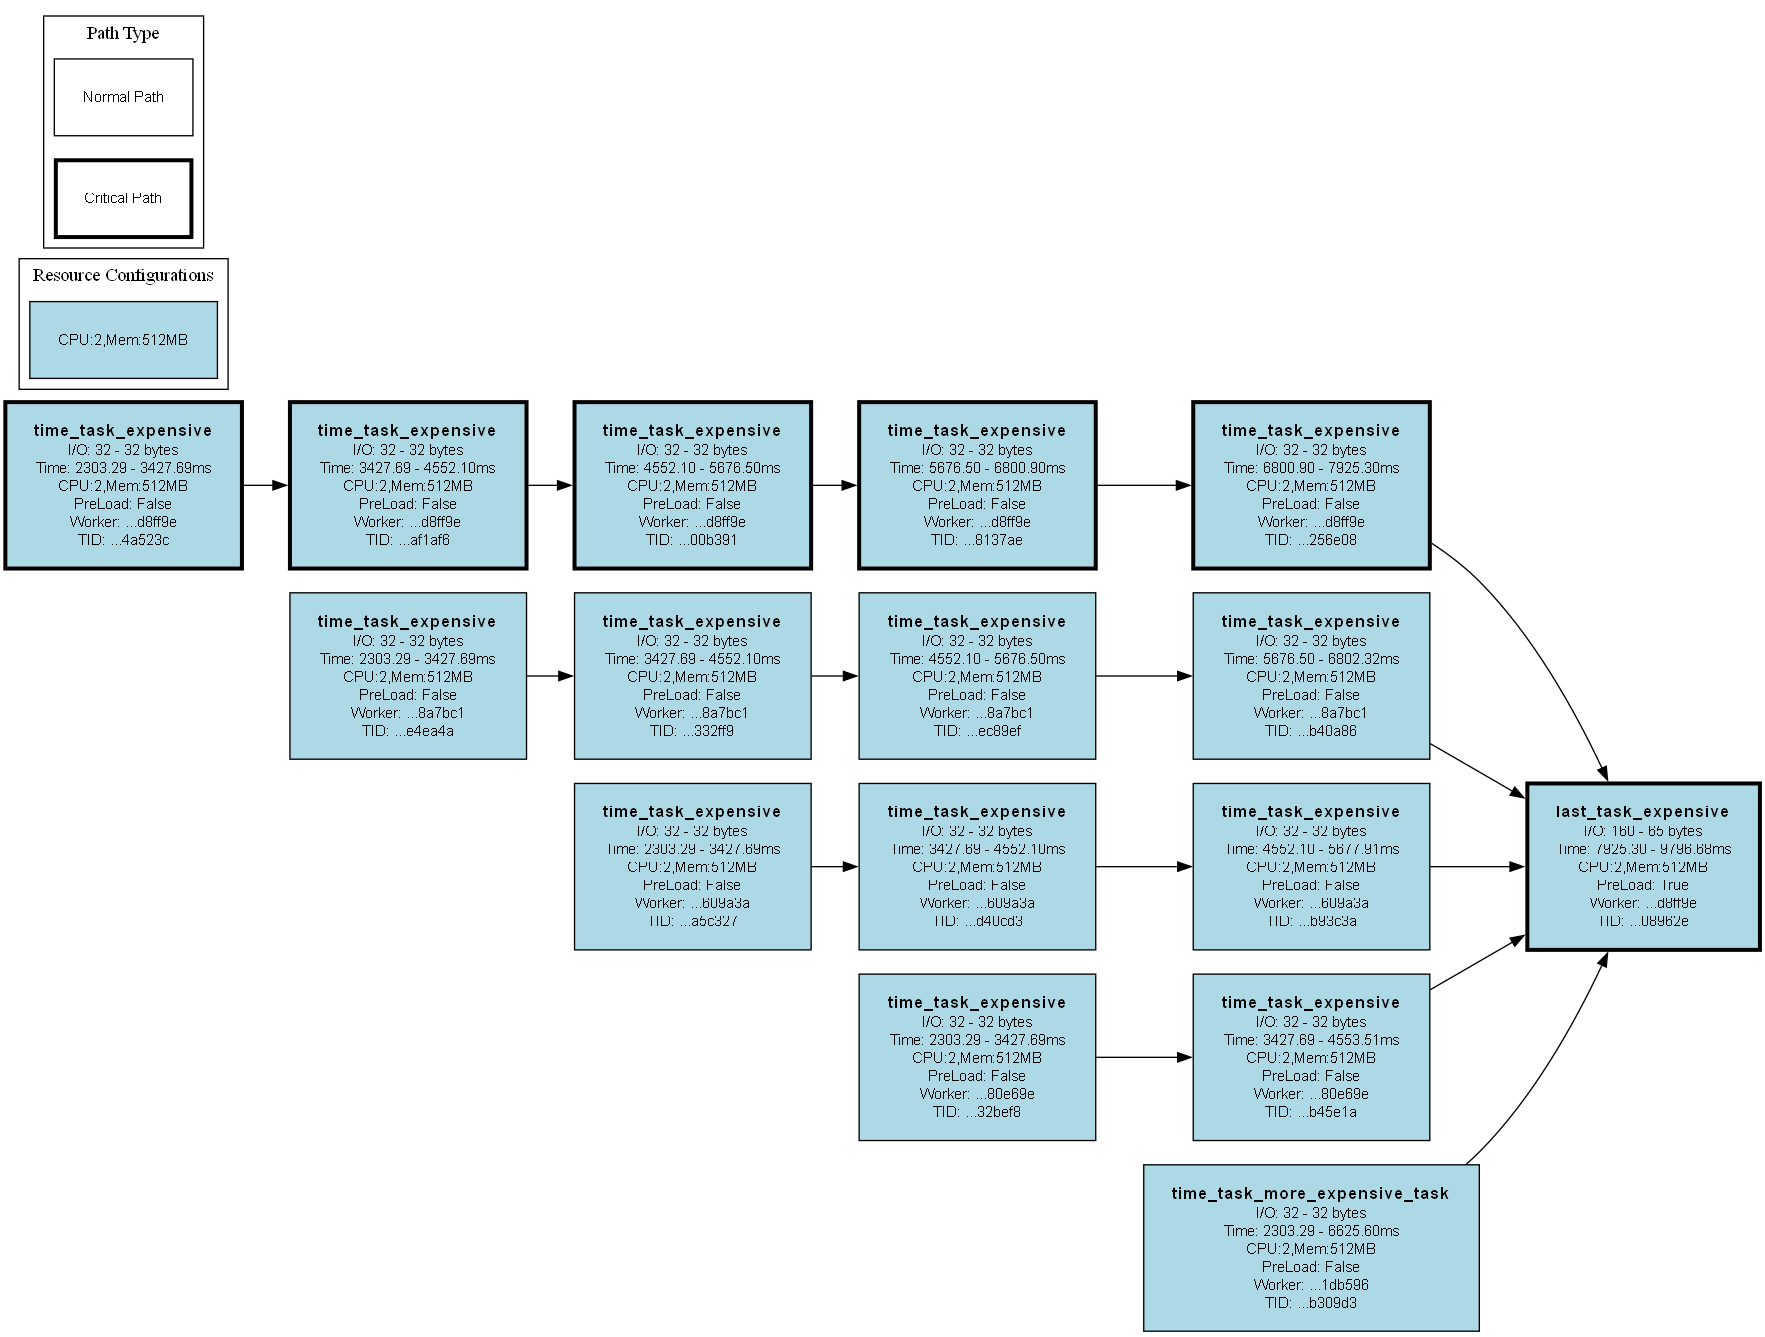
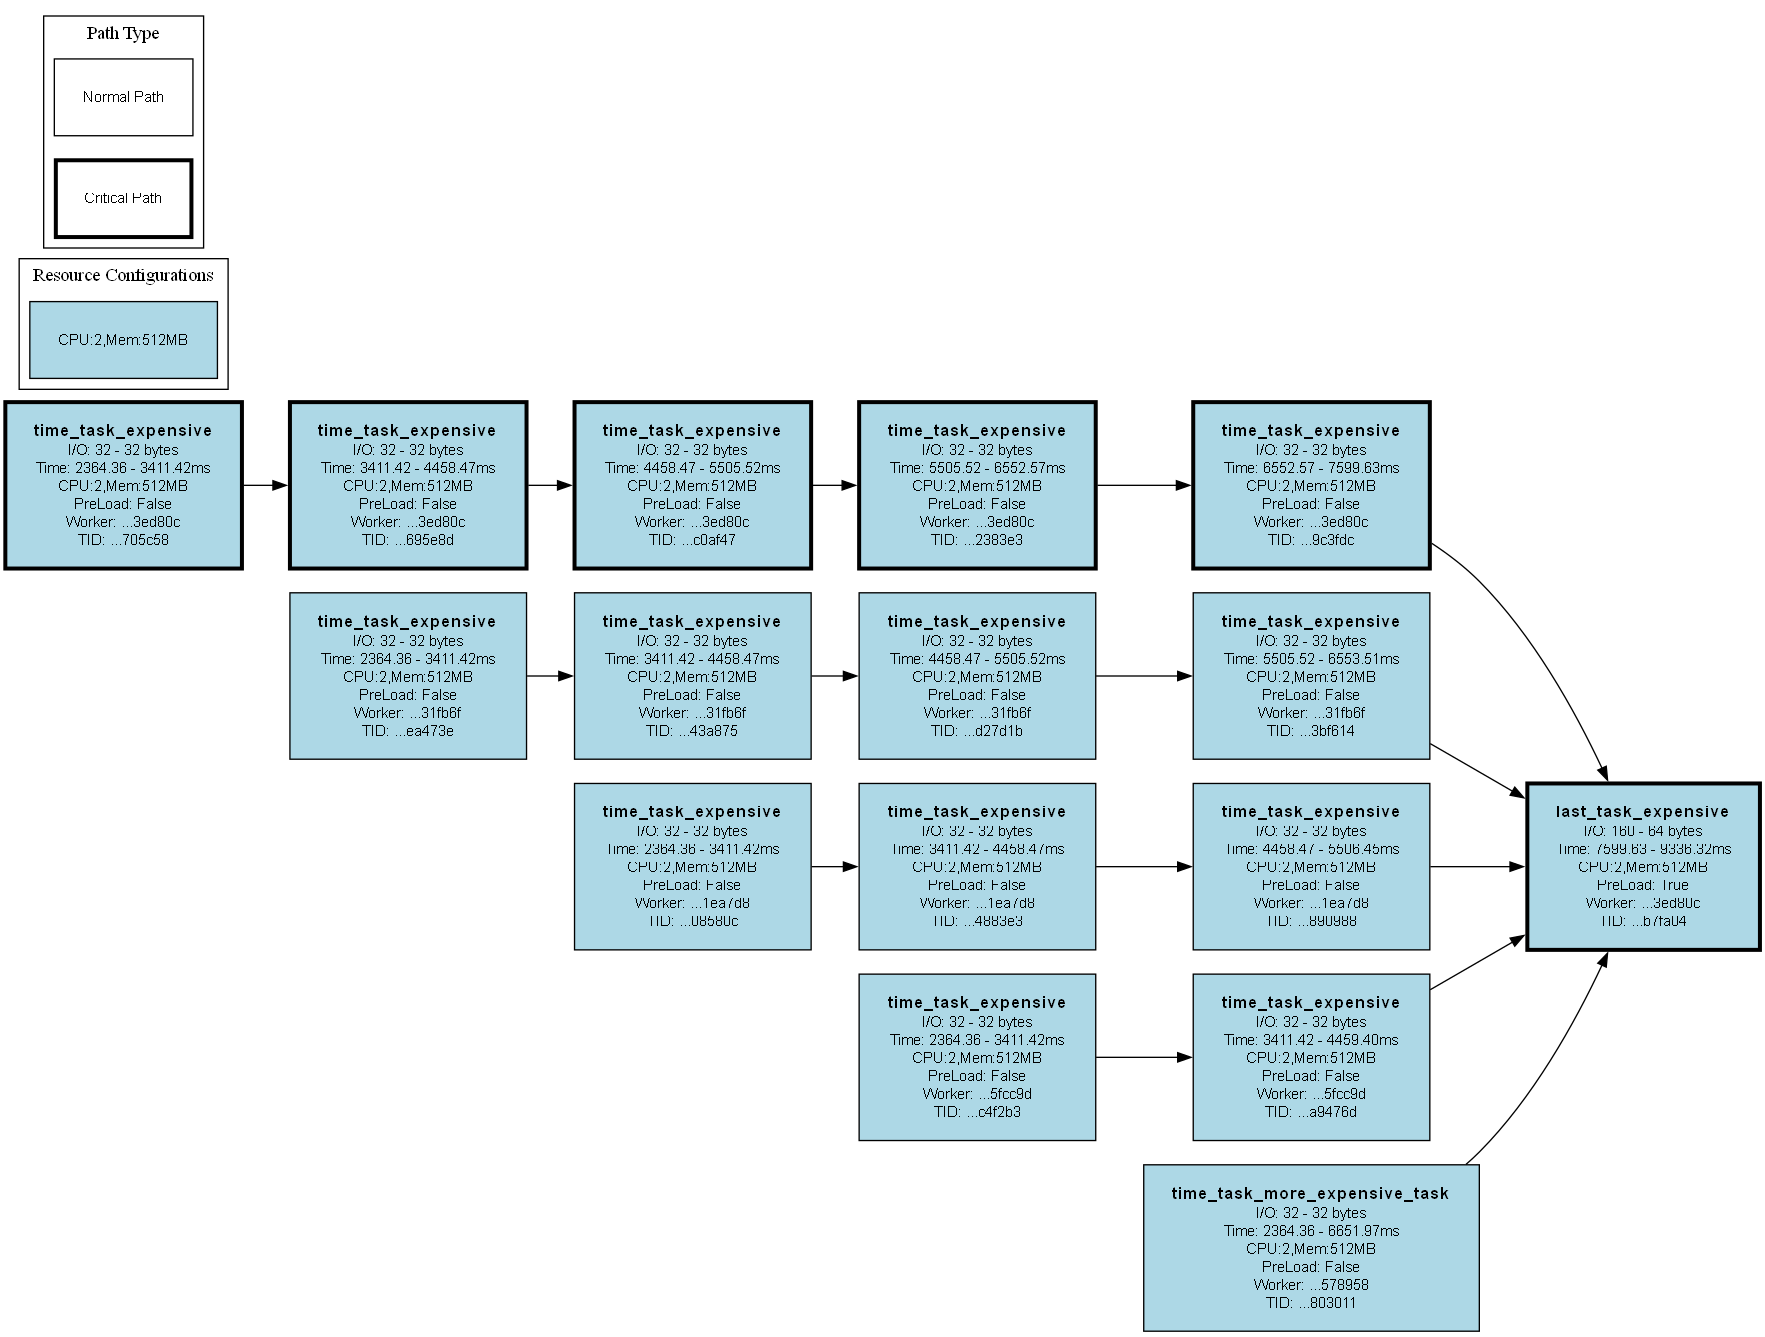
add makespan comparisons to global dashboard

diff --git a/src/workers/worker.py b/src/workers/worker.py
@@ -59,21 +59,11 @@ class Worker(ABC, WorkerExecutionLogic):
             while True:
                 current_task.metrics.worker_resource_configuration = _my_resource_configuration_with_flexible_worker_id
                 current_task.metrics.started_at_timestamp_s = time.time()
-                current_task.metrics.input_metrics = TaskInputMetrics()
 
                 #* 1) DOWNLOAD TASK DEPENDENCIES
                 self.log(current_task.id.get_full_id(), f"1) Grabbing {len(current_task.upstream_nodes)} upstream tasks...")
                 task_dependencies: dict[str, Any] = {}
-                # Grab outputs that are already cached locally
-                for t in current_task.upstream_nodes:
-                    if t.cached_result:
-                        task_dependencies[t.id.get_full_id()] = t.cached_result.result
-                        current_task.metrics.input_metrics.input_download_metrics[t.id.get_full_id()] = TaskInputDownloadMetrics(
-                            serialized_size_bytes=calculate_data_structure_size(t.cached_result.result),
-                            deserialized_size_bytes=calculate_data_structure_size(t.cached_result.result),
-                            time_ms=None
-                        )
-                
+
                 upstream_tasks_without_cached_results: list[dag_task_node.DAGTaskNode] = []
                 for t in current_task.upstream_nodes:
                     if t.cached_result is None:
@@ -83,10 +73,28 @@ class Worker(ABC, WorkerExecutionLogic):
 
                 if self.planner:
                     # self.log(self.my_resource_configuration.worker_id, "PLANNER.HANDLE_INPUTS()")
-                    tasks_to_fetch, wait_until_coroutine = await self.planner.override_handle_inputs(self.intermediate_storage, current_task, subdag, upstream_tasks_without_cached_results, self.my_resource_configuration, task_dependencies)
+                    tasks_to_fetch, tasks_fetched_by_handler, wait_until_coroutine = await self.planner.override_handle_inputs(self.intermediate_storage, current_task, subdag, upstream_tasks_without_cached_results, self.my_resource_configuration, task_dependencies)
                 else:
                     # self.log(self.my_resource_configuration.worker_id, "WEL.HANDLE_INPUTS()")
-                    tasks_to_fetch, wait_until_coroutine = await WorkerExecutionLogic.override_handle_inputs(self.intermediate_storage, current_task, subdag, upstream_tasks_without_cached_results, self.my_resource_configuration, task_dependencies)
+                    tasks_to_fetch, tasks_fetched_by_handler, wait_until_coroutine = await WorkerExecutionLogic.override_handle_inputs(self.intermediate_storage, current_task, subdag, upstream_tasks_without_cached_results, self.my_resource_configuration, task_dependencies)
+
+                tasks_with_cached_results = list(
+                    set([un.id.get_full_id() for un in current_task.upstream_nodes]) - 
+                    set([t.id.get_full_id() for t in tasks_to_fetch]) - 
+                    set(tasks_fetched_by_handler)
+                )
+
+                # Grab outputs that are already cached locally
+                for t in current_task.upstream_nodes:
+                    if t.id.get_full_id() not in tasks_with_cached_results: continue
+                    if not t.cached_result: continue
+                    
+                    task_dependencies[t.id.get_full_id()] = t.cached_result.result
+                    current_task.metrics.input_metrics.input_download_metrics[t.id.get_full_id()] = TaskInputDownloadMetrics(
+                        serialized_size_bytes=calculate_data_structure_size(t.cached_result.result),
+                        deserialized_size_bytes=calculate_data_structure_size(t.cached_result.result),
+                        time_ms=None
+                    )
 
                 if tasks_to_fetch:
                     for utask in tasks_to_fetch:

diff --git a/_metadata_analysis/global_planning_analysis_dashboard.py b/_metadata_analysis/global_planning_analysis_dashboard.py
@@ -200,7 +200,7 @@ def main():
                     continue
                     
                 # Calculate actual metrics
-                actual_total_download = sum([sum([input_metric.time_ms / 1000 for input_metric in task.metrics.input_metrics.input_download_metrics.values() if input_metric.time_ms is not None]) for task in instance.tasks]) 
+                actual_total_download = sum([sum([input_metric.time_ms / 1000 for input_metric in task.metrics.input_metrics.input_download_metrics.values() if input_metric.time_ms is not None]) for task in instance.tasks])
                 actual_execution = sum(task.metrics.tp_execution_time_ms / 1000 for task in instance.tasks)  # in seconds
                 actual_upload = sum(task.metrics.output_metrics.tp_time_ms / 1000 for task in instance.tasks if task.metrics.output_metrics.tp_time_ms is not None)  # in seconds
                 actual_invocation = sum(task.metrics.total_invocation_time_ms / 1000 for task in instance.tasks if task.metrics.total_invocation_time_ms is not None)  # in seconds
@@ -597,6 +597,7 @@ def main():
                     if planner not in planner_metrics:
                         planner_metrics[planner] = {
                             'count': 0,
+                            'makespan': 0,
                             'execution': 0,
                             'download': 0,
                             'upload': 0,
@@ -611,6 +612,10 @@ def main():
                     # Calculate metrics for this instance
                     metrics = planner_metrics[planner]
                     metrics['count'] += 1
+                    sink_task_metrics = [t for t in instance.tasks if t.internal_task_id == instance.dag.sink_node.id.get_full_id()][0].metrics
+                    sink_task_ended_timestamp_ms = (sink_task_metrics.started_at_timestamp_s * 1000) + (sink_task_metrics.input_metrics.tp_total_time_waiting_for_inputs_ms or 0) + (sink_task_metrics.tp_execution_time_ms or 0) + (sink_task_metrics.output_metrics.tp_time_ms or 0) + (sink_task_metrics.total_invocation_time_ms or 0)
+                    actual_makespan_s = (sink_task_ended_timestamp_ms - instance.start_time_ms) / 1000
+                    metrics['makespan'] += actual_makespan_s
                     metrics['execution'] += sum(task.metrics.tp_execution_time_ms / 1000 for task in instance.tasks)
                     metrics['download'] += sum(
                         sum(input_metric.time_ms / 1000 
@@ -654,7 +659,7 @@ def main():
                     for planner in planner_metrics.values():
                         count = planner['count']
                         if count > 0:
-                            for key in ['execution', 'download', 'upload', 'input_size', 
+                            for key in ['makespan', 'execution', 'download', 'upload', 'input_size', 
                                       'output_size', 'invocation', 'dependency_update', 'dag_download', 'worker_startup']:
                                 planner[key] /= count
                     
@@ -662,6 +667,7 @@ def main():
                     plot_data = []
                     for planner_name, metrics in planner_metrics.items():
                         plot_data.extend([
+                            {'Planner': planner_name, 'Metric': 'Total Makespan (s)', 'Value': metrics['makespan']},
                             {'Planner': planner_name, 'Metric': 'Total Execution Time (s)', 'Value': metrics['execution']},
                             {'Planner': planner_name, 'Metric': 'Total Download Time (s)', 'Value': metrics['download']},
                             {'Planner': planner_name, 'Metric': 'Total Upload Time (s)', 'Value': metrics['upload']},

diff --git a/_metadata_analysis/workflow_instance_analysis_dashboard.py b/_metadata_analysis/workflow_instance_analysis_dashboard.py
@@ -410,7 +410,6 @@ def main():
                 with col2:
                     st.metric("Total Task Time", f"{total_task_handling_time:.2f} ms")
                     st.metric("Time Downloading Dependencies", f"{sum([input_metric.time_ms for input_metric in metrics.input_metrics.input_download_metrics.values() if input_metric.time_ms]):.2f} ms")
-                    print(sum([input_metric.time_ms for input_metric in metrics.input_metrics.input_download_metrics.values() if input_metric.time_ms]))
                     st.metric("Output Upload Time", f"{(metrics.output_metrics.tp_time_ms or 0):.2f} ms")
                     st.metric("Output Size", format_bytes(output_data))
                 with col3:
@@ -785,8 +784,8 @@ def main():
                     total_data_uploaded += task_metrics.output_metrics.deserialized_size_bytes
 
             # Calculate average throughputs
-            avg_download_throughput = sum(download_throughputs_mb_s) / len(download_throughputs_mb_s) if download_throughputs_mb_s else 0
-            avg_upload_throughput = sum(upload_throughputs_mb_s) / len(upload_throughputs_mb_s) if upload_throughputs_mb_s else 0
+            avg_download_throughput_mb_s = sum(download_throughputs_mb_s) / len(download_throughputs_mb_s) if download_throughputs_mb_s else 0
+            avg_upload_throughput_mb_s = sum(upload_throughputs_mb_s) / len(upload_throughputs_mb_s) if upload_throughputs_mb_s else 0
 
             # Display metrics in columns
             col1, col2, col3, col4 = st.columns(4)
@@ -794,8 +793,8 @@ def main():
                 st.metric("Total Data Downloaded", format_bytes(total_data_downloaded))
                 st.metric("Total Data Uploaded", format_bytes(total_data_uploaded))
             with col2:
-                st.metric("Download Throughput (avg)", f"{avg_download_throughput:.2f} MB/s")
-                st.metric("Upload Throughput (avg)", f"{avg_upload_throughput:.2f} MB/s")
+                st.metric("Download Throughput (avg)", f"{avg_download_throughput_mb_s:.2f} MB/s")
+                st.metric("Upload Throughput (avg)", f"{avg_upload_throughput_mb_s:.2f} MB/s")
             with col3:
                 st.metric("Number of Downloads", len(download_throughputs_mb_s))
                 st.metric("Number of Uploads", len(upload_throughputs_mb_s))

diff --git a/src/planning/predictions/predictions_provider.py b/src/planning/predictions/predictions_provider.py
@@ -162,7 +162,7 @@ class PredictionsProvider:
             if cpus == resource_config.cpus and memory_mb == resource_config.memory_mb
         ]
 
-        logger.info(f"Found {len(matching_samples)} exact resource matches for {type}")
+        # logger.info(f"Found {len(matching_samples)} exact resource matches for {type}")
         
         if len(matching_samples) >= self.MIN_SAMPLES_OF_SAME_RESOURCE_CONFIGURATION:
             # Direct prediction using exact resource matches (no memory scaling needed)
@@ -203,7 +203,7 @@ class PredictionsProvider:
             if cpus == resource_config.cpus and memory_mb == resource_config.memory_mb
         ]
 
-        logger.info(f"Found {len(matching_samples)} exact resource matches for {state}")
+        # logger.info(f"Found {len(matching_samples)} exact resource matches for {state}")
         
         if len(matching_samples) >= self.MIN_SAMPLES_OF_SAME_RESOURCE_CONFIGURATION:
             # Direct prediction using exact resource matches (no memory scaling needed)
@@ -264,7 +264,7 @@ class PredictionsProvider:
             if cpus == resource_config.cpus and memory_mb == resource_config.memory_mb
         ]
 
-        logger.info(f"Found {len(matching_samples)} exact resource matches for function {function_name}")
+        # logger.info(f"Found {len(matching_samples)} exact resource matches for function {function_name}")
         
         if len(matching_samples) >= self.MIN_SAMPLES_OF_SAME_RESOURCE_CONFIGURATION:
             # Direct prediction using exact resource matches (no memory scaling needed)

diff --git a/src/workers/worker_execution_logic.py b/src/workers/worker_execution_logic.py
@@ -19,7 +19,7 @@ class WorkerExecutionLogic():
         pass
 
     @staticmethod
-    async def override_handle_inputs(intermediate_storage: Storage, task, subdag: SubDAG, upstream_tasks_without_cached_results: list, worker_resource_config, task_dependencies: dict[str, Any]) -> tuple[list, CoroutineType | None]:
+    async def override_handle_inputs(intermediate_storage: Storage, task, subdag: SubDAG, upstream_tasks_without_cached_results: list, worker_resource_config, task_dependencies: dict[str, Any]) -> tuple[list, list[str], CoroutineType | None]:
         """
         returns (
             tasks_to_fetch (on default implementation, fetch ALL tasks that don't have cached results),
@@ -27,7 +27,7 @@ class WorkerExecutionLogic():
             wait_until_coroutine (so that the caller can fetch the tasks in parallel)
         )
         """
-        return (upstream_tasks_without_cached_results, None)
+        return (upstream_tasks_without_cached_results, [], None)
     
     @staticmethod
     async def override_handle_execution(task, task_dependencies: dict[str, Any]) -> tuple[Any, float]:
@@ -43,7 +43,7 @@ class WorkerExecutionLogic():
         _task: DAGTaskNode = task
         
         _task.metrics.output_metrics = TaskOutputMetrics(
-            serialized_size_bytes=calculate_data_structure_size(task_result), 
+            serialized_size_bytes=calculate_data_structure_size(cloudpickle.dumps(task_result)), 
             deserialized_size_bytes=calculate_data_structure_size(task_result), # accurate
             tp_time_ms=None
         )

diff --git a/src/planning/annotations/preload.py b/src/planning/annotations/preload.py
@@ -85,7 +85,7 @@ class PreLoadOptimization(TaskAnnotation, WorkerExecutionLogic):
                 )
 
     @staticmethod
-    async def override_handle_inputs(intermediate_storage: Storage, task: DAGTaskNode, subdag: SubDAG, upstream_tasks_without_cached_results: list, worker_resource_config: TaskWorkerResourceConfiguration | None, task_dependencies: dict[str, Any]) -> tuple[list, CoroutineType | None]:
+    async def override_handle_inputs(intermediate_storage: Storage, task: DAGTaskNode, subdag: SubDAG, upstream_tasks_without_cached_results: list, worker_resource_config: TaskWorkerResourceConfiguration | None, task_dependencies: dict[str, Any]) -> tuple[list, list[str], CoroutineType | None]:
         """
         returns (
             tasks_to_fetch (on default implementation, fetch ALL tasks that don't have cached results),
@@ -120,4 +120,6 @@ class PreLoadOptimization(TaskAnnotation, WorkerExecutionLogic):
                 if not t.cached_result: raise Exception(f"ERROR: Task {t.id.get_full_id()} was preloading. After preload, it doesn't have a cached result!!")
                 task_dependencies[t.id.get_full_id()] = t.cached_result.result
 
-        return (upstream_tasks_to_fetch, _wait_all_preloads_coroutine())
+        upstream_tasks_i_fetch = list(__tasks_preloading_coroutines.keys())
+
+        return (upstream_tasks_to_fetch, upstream_tasks_i_fetch, _wait_all_preloads_coroutine())

diff --git a/src/planning/abstract_dag_planner.py b/src/planning/abstract_dag_planner.py
@@ -200,7 +200,7 @@ class AbstractDAGPlanner(ABC, WorkerExecutionLogic):
             output_size, 
             None,
             0,
-            tp_download_time, 
+            tp_download_time,
             exec_time, 
             upload_time,
             total_download_time,

diff --git a/TODO.md b/TODO.md
@@ -1,11 +1,6 @@
 - WARM/COLD starts ASSUMPTION:
     - using resource_config (memory + cpus) instead of worker_id
 
-- BUG: When planning is done, the input_metrics time_ms is always 0
-
-- `global_planning` dashboard
-    - add makespan to the 2 visualizations
-
 - See notion todo for "visualization todo"
 
 ---
@@ -39,8 +34,9 @@
 - Create a planner that uses them + make the prediction calculations take it into account
 
 [PREDICTIONS:IMPROVEMENTS]
-- Give more importance to most recent predictions
-- Trying to progressively understand the I/O relationship of the functions instead of using `exponential` function
+- Outlier removal strategies (remove values that fall under/above a threshold/percentage of the mean)
+- Give more importance to most recent predictions (e.g., first instance takes 6 seconds but all others take 200 seconds for some reason (6 will be pulling down the predictions))
+- Trying to progressively understand the I/O relationship of each function of the workflows instead of using `exponential` function
 
 [EVALUATION:PREPARE]
 ?? Implement **Dask** planner ?? 
